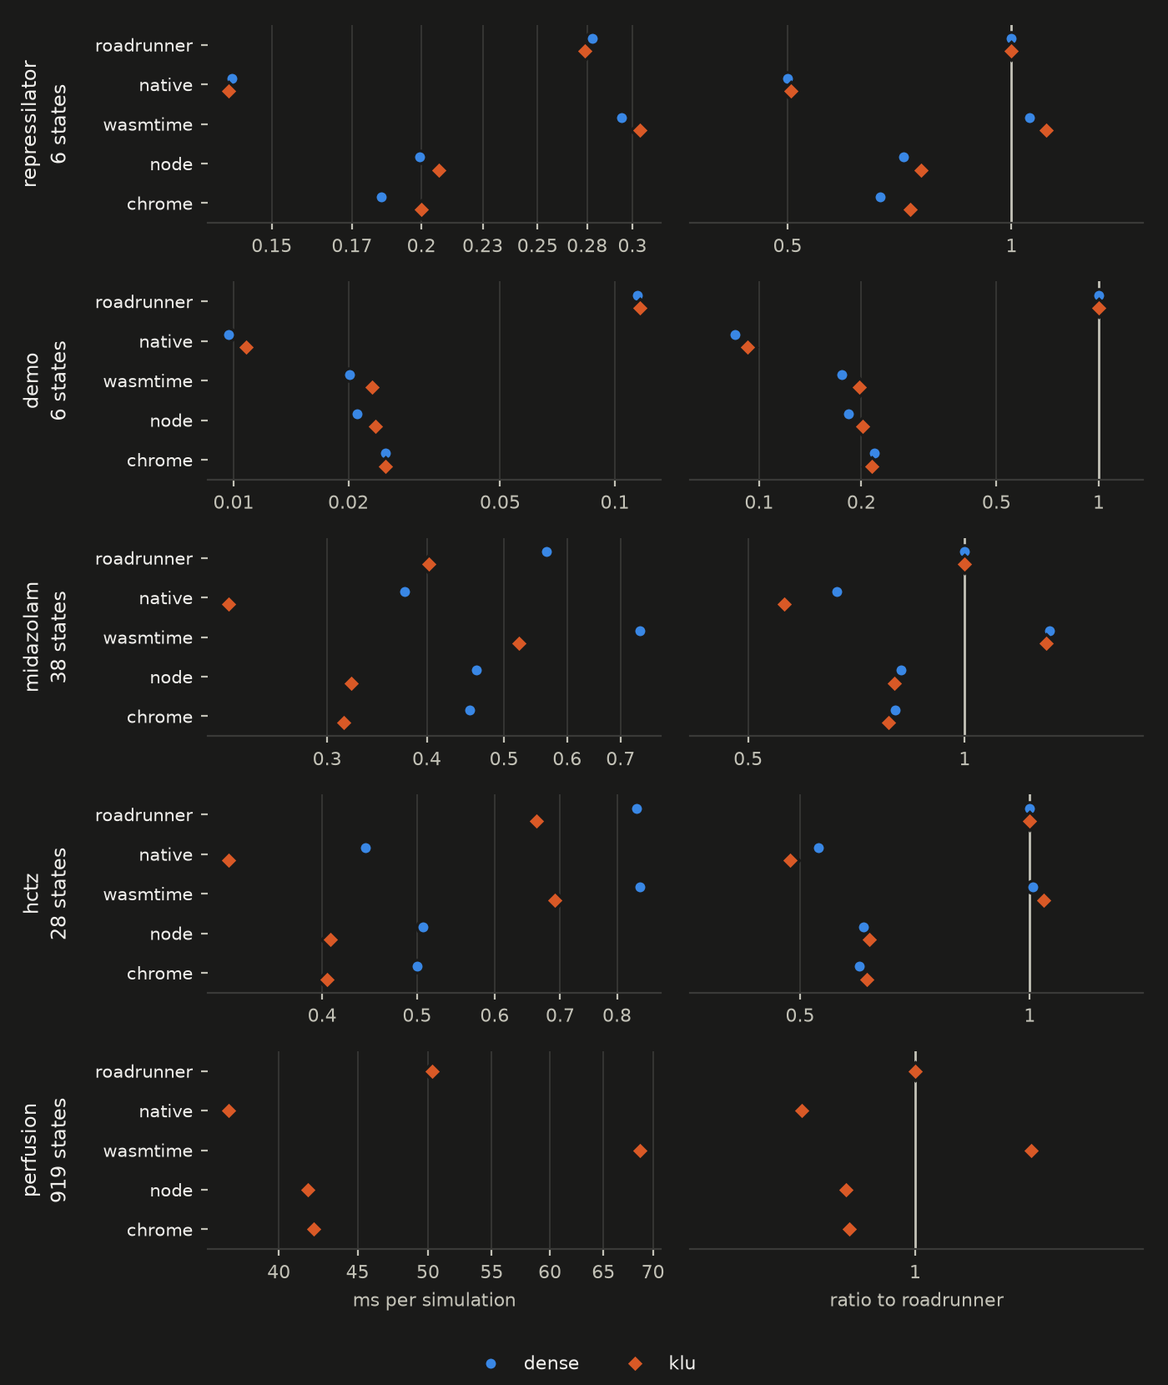
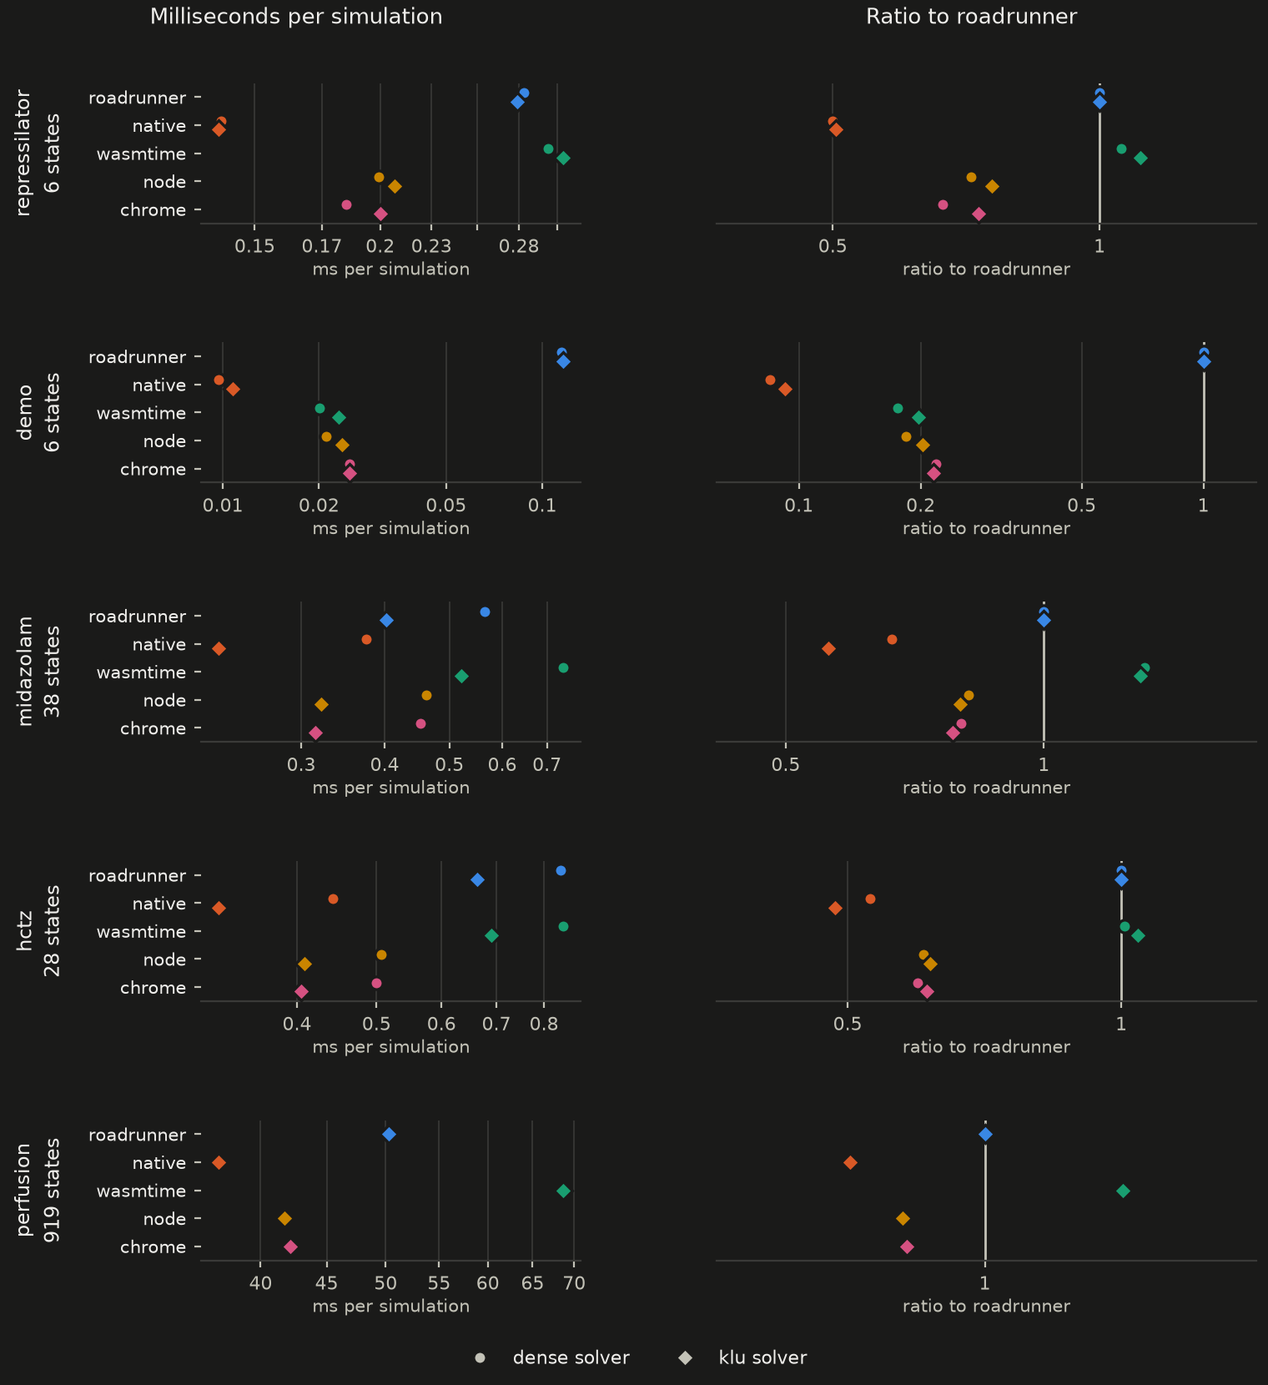
sbmlsim-core 0.9.0 (#26)
* The four models of sbmlsim as a benchmark of the engine against roadrunner

sbmlsim measures this engine from python and reports it at 0.43 to 2.34 ms
for one simulation of its four packaged models against roadrunner's 0.46 to
2.00 ms, so the engine looks a little slower there. `bench/sbmlsim.toml`
measures the same four simulations without python, on every host, and the
answer is the other way round: the engine takes 0.04 to 0.72 of roadrunner's
time natively, in Node and in Chrome, and 0.09 to 1.09 in wasmtime, whose
Cranelift code is 25 to 75 % slower than V8's on the same `engine.wasm`.

The file is the configuration of sbmlsim's benchmark and not of
`bench/models.toml`: the same ends and doses, 101 output points and the
settings sbmlsim sends for a run at the defaults of `Simulator`, rtol 1e-6
with roadrunner's vector of absolute tolerances of the base 1e-10, where
`bench/models.toml` keeps the tighter 1e-12 of the spike. The two lists are
each comparable with themselves and not with each other.

`bench/SBMLSIM.md` reports the five hosts and reads them against sbmlsim's
own numbers: the python layer costs the engine 1.19 to 1.93 ms per
simulation against roadrunner's 0.22 to 1.32 ms, which is 83 to 98 % of what
sbmlsim measures for the engine, and two thirds of it is work which does not
depend on the simulation. The engine is not where that time goes.

* sbmlsim-core 0.9.0

The version in every place which carries it and the release notes of the
[…]

diff --git a/python/sbmlsim_core/web/sbmlsim-core.js b/python/sbmlsim_core/web/sbmlsim-core.js
@@ -1,4 +1,4 @@
-// sbmlsim-core 0.8.0, the inline build of its JavaScript host (js/inline.mjs, js/build.mjs).
+// sbmlsim-core 0.9.0, the inline build of its JavaScript host (js/inline.mjs, js/build.mjs).
 // Generated, do not edit. MIT AND BSD-3-Clause AND LGPL-2.1-or-later, see LICENSE and THIRD_PARTY.md.
 var sbmlsimCore = (() => {
   var __defProp = Object.defineProperty;
@@ -955,7 +955,7 @@ var sbmlsimCore = (() => {
   }
 
   // panels.mjs
-  var CORE_VERSION = "0.8.0";
+  var CORE_VERSION = "0.9.0";
   var ENGINE = `sbmlsim-core ${CORE_VERSION}`;
   var BUNDLE_CONTRACT = "panelbundle/1";
   var PANEL_CONTRACT = "panel/1";

diff --git a/scripts/bench_figure.py b/scripts/bench_figure.py
@@ -52,12 +52,28 @@ ENGINES: tuple[tuple[str, str], ...] = (
 SOLVERS: tuple[str, ...] = ("dense", "klu")
 
 #: The colours of the solvers: the categorical slots 1 and 2, light and dark.
+# the first five slots of the categorical theme, which validate on the adjacent
+# pairlist in both modes; identity is the row label and its position, the colour
+# ties one engine across the panels
 COLORS: dict[str, dict[str, str]] = {
-    "light": {"dense": "#2a78d6", "klu": "#eb6834"},
-    "dark": {"dense": "#3987e5", "klu": "#d95926"},
+    "light": {
+        "roadrunner": "#2a78d6",
+        "native": "#eb6834",
+        "wasmtime": "#1baf7a",
+        "node": "#eda100",
+        "chrome": "#e87ba4",
+    },
+    "dark": {
+        "roadrunner": "#3987e5",
+        "native": "#d95926",
+        "wasmtime": "#199e70",
+        "node": "#c98500",
+        "chrome": "#d55181",
+    },
 }
 
-#: The surface, the ink and the recessive ink of each mode of the documentation.
+MARKERS: dict[str, str] = {"dense": "o", "klu": "D"}
+
 INK: dict[str, dict[str, str]] = {
     "light": {
         "surface": "#ffffff",
@@ -202,8 +218,35 @@ def tables(cells: list[Cell], models: list[str]) -> str:
     return "\n".join(out).strip()
 
 
+def _thin_ticks(fig: Figure) -> None:
+    """Hide the tick labels of an axis which would overlap their neighbour.
+
+    A logarithmic axis of less than a decade gets more ticks from matplotlib
+    than its width carries, so the labels are thinned after the layout, when
+    their drawn width is known.
+
+    Args:
+        fig: The figure, drawn.
+    """
+    renderer = fig.canvas.get_renderer()
+    for ax in fig.get_axes():
+        kept: float | None = None
+        for label in ax.xaxis.get_ticklabels():
+            if not label.get_text():
+                continue
+            box = label.get_window_extent(renderer=renderer)
+            if kept is not None and box.x0 < kept + 3.0:
+                label.set_visible(False)
+                continue
+            kept = box.x1
+
+
 def figure(cells: list[Cell], models: list[str], mode: str) -> Figure:
     """Draw the figure of one mode of the documentation.
+
+    The two measures are two subfigures with a gap between them, each with its
+    own heading and an axis label under every panel, so a time is never read as
+    a ratio. A colour is an engine and a marker is a solver.
 
     Args:
         cells: The measured configurations.
@@ -216,18 +259,23 @@ def figure(cells: list[Cell], models: list[str], mode: str) -> Figure:
     ink, color = INK[mode], COLORS[mode]
     by = {(c.model, c.engine, c.solver): c for c in cells}
     engines = [e for e, _ in ENGINES]
+    headings = {"ms": "Milliseconds per simulation", "ratio": "Ratio to roadrunner"}
 
-    fig, axes = plt.subplots(
-        len(models),
-        2,
-        figsize=(7.0, 1.55 * len(models) + 0.55),
-        facecolor=ink["surface"],
-    )
-    for row, model in enumerate(models):
-        last = row == len(models) - 1
-        for column, measure in enumerate(("ms", "ratio")):
-            ax = axes[row][column]
-            shown = engines
+    fig = plt.figure(figsize=(7.6, 1.5 * len(models) + 0.8), facecolor=ink["surface"])
+    columns = fig.subfigures(1, 2, wspace=0.14)
+    for column, measure in enumerate(("ms", "ratio")):
+        panel = columns[column]
+        panel.set_facecolor(ink["surface"])
+        panel.suptitle(
+            headings[measure],
+            fontsize=9.5,
+            color=ink["primary"],
+            y=0.995,
+            fontweight="medium",
+        )
+        axes = panel.subplots(len(models), 1)
+        for row, model in enumerate(models):
+            ax = axes[row]
             ax.set_facecolor(ink["surface"])
             for spine in ("top", "right", "left"):
                 ax.spines[spine].set_visible(False)
@@ -241,10 +289,10 @@ def figure(cells: list[Cell], models: list[str], mode: str) -> Figure:
             )
             ax.xaxis.set_minor_locator(NullLocator())
             ax.xaxis.set_major_formatter(FuncFormatter(_plain))
-            ax.set_ylim(len(shown) - 0.5, -0.5)
-            ax.set_yticks(range(len(shown)))
+            ax.set_ylim(len(engines) - 0.5, -0.5)
+            ax.set_yticks(range(len(engines)))
             ax.set_yticklabels(
-                shown if column == 0 else [""] * len(shown),
+                engines if column == 0 else [""] * len(engines),
                 fontsize=7.5,
                 color=ink["primary"],
             )
@@ -254,12 +302,11 @@ def figure(cells: list[Cell], models: list[str], mode: str) -> Figure:
                 ax.axvline(1.0, color=ink["secondary"], linewidth=1.0, zorder=1)
                 values = [
                     by[(model, e, s)].ms / by[(model, "roadrunner", s)].ms
-                    for e in shown
+                    for e in engines
                     for s in solvers
                 ]
-                low, high = min(values), max(values)
-                ax.set_xlim(low / 1.35, high * 1.35)
-            for position, engine in enumerate(shown):
+                ax.set_xlim(min(values) / 1.35, max(values) * 1.35)
+            for position, engine in enumerate(engines):
                 for solver in solvers:
                     cell = by.get((model, engine, solver))
                     reference = by.get((model, "roadrunner", solver))
@@ -275,9 +322,9 @@ def figure(cells: list[Cell], models: list[str], mode: str) -> Figure:
                     ax.plot(
                         value,
                         position + offset,
-                        marker="o" if solver == "dense" else "D",
+                        marker=MARKERS[solver],
                         markersize=5.5,
-                        markerfacecolor=color[solver],
+                        markerfacecolor=color[engine],
                         markeredgecolor=ink["surface"],
                         markeredgewidth=1.2,
                         linestyle="none",
@@ -294,23 +341,31 @@ def figure(cells: list[Cell], models: list[str], mode: str) -> Figure:
                     linespacing=1.4,
                     labelpad=10,
                 )
-            if last:
-                ax.set_xlabel(
-                    "ms per simulation" if measure == "ms" else "ratio to roadrunner",
-                    fontsize=8,
-                    color=ink["secondary"],
-                )
+            ax.set_xlabel(
+                "ms per simulation" if measure == "ms" else "ratio to roadrunner",
+                fontsize=7.5,
+                color=ink["secondary"],
+                labelpad=2,
+            )
+        # the left column carries the engine names and the model heading
+        panel.subplots_adjust(
+            left=0.34 if column == 0 else 0.07,
+            right=0.98,
+            hspace=0.85,
+            top=0.94,
+            bottom=0.09,
+        )
     handles = [
         Line2D(
             [],
             [],
-            marker="o" if solver == "dense" else "D",
+            marker=MARKERS[solver],
             markersize=5.5,
-            markerfacecolor=color[solver],
+            markerfacecolor=ink["secondary"],
             markeredgecolor=ink["surface"],
             markeredgewidth=1.2,
             linestyle="none",
-            label=solver,
+            label=f"{solver} solver",
         )
         for solver in SOLVERS
     ]
@@ -321,10 +376,11 @@ def figure(cells: list[Cell], models: list[str], mode: str) -> Figure:
         frameon=False,
         fontsize=8,
         labelcolor=ink["primary"],
-        bbox_to_anchor=(0.5, -0.004),
+        bbox_to_anchor=(0.5, 0.0),
     )
     legend.set_zorder(5)
-    fig.tight_layout(rect=(0, 0.035, 1, 1))
+    fig.canvas.draw()
+    _thin_ticks(fig)
     return fig
 
 

diff --git a/release-notes/0.9.0.md b/release-notes/0.9.0.md
@@ -1,0 +1,29 @@
+# Release notes for sbmlsim-core 0.9.0
+
+The python package simulates on the native engine instead of `engine.wasm` in wasmtime, which is 1.9 to 2.3 times the speed of the wheel of 0.8.0 on the five models of the benchmark of sbmlsim. The model is the same `model.wasm` as before, so only the integrator changes, and what that costs is the last bits: a result of a wheel is no longer bitwise a result of the same model in a browser, and no longer guaranteed bitwise across platforms.
+
+## New
+
+- **The python bindings simulate on the native engine** ([#24](https://github.com/matthiaskoenig/sbmlsim-core/pull/24)). A wheel ran `engine.wasm` in wasmtime, which is the slowest of the hosts this engine runs on: measured on the five models of the benchmark of [sbmlsim](https://github.com/matthiaskoenig/sbmlsim) at its own configuration (`bench/sbmlsim.toml`, one performance core), one simulation took 0.020 to 69 ms there against 0.0097 to 37 ms natively, and V8 is 25 to 75 % faster than Cranelift on the same `engine.wasm`, so a browser integrated faster than python did. `crates/python` now takes `sbmlsim-host` with its feature `native`, so the integrator is compiled for the machine of the wheel (CVODE and SuiteSparse KLU from the submodules of `third_party`) while `model.wasm` and `mathlib.wasm` stay in wasmtime. Driven from sbmlsim, which also stopped making an instance per simulation, one simulation of the HCTZ model went from 2.34 ms to 0.876 ms.
+
+    **A result is no longer bitwise the one of `engine.wasm`.** CVODE calls the `pow` and `sqrt` of the C library of the platform where it chooses its step size (`SUNRpowerR`), `engine.wasm` calls those of wasi-libc, so a result of a wheel is not bitwise a result of the same model in a browser or under `node`, and is not guaranteed bitwise across platforms either, the C library being the platform's. Within one platform and one wheel nothing changes: the C sources are compiled `-O3 -DNDEBUG -ffp-contract=off -fno-fast-math`, so no fused multiply-add and no fast math enter a result, every instance of a model integrates the same way, and a batch gives the results of a serial run bitwise whatever its threads. How large the differences are, measured: on those models the integrator took the identical path in the native engine, in wasmtime and under Node, all eighteen configurations of a model, a solver and a Jacobian agreeing on every counter (the 919 state model among them), so nothing of those results moved, and the largest relative difference from roadrunner at tight tolerances is the one of `engine.wasm` at every digit printed (4.32e-12, 0, 1.70e-08 and 1.20e-11). On the golden model, which has events, root functions and a steady state in its request, 3 of 30 values differ and the largest relative difference is 1.0e-14, against an integration at a relative tolerance of 1e-6. So the two engines can differ, and where they do it is near the last bits of a double and far below the error of the integration. `sbmlsim-core bench --host wasmtime` and the [JavaScript host](https://matthiaskoenig.github.io/sbmlsim-core/javascript/) remain the way to a result of `engine.wasm`, and `docs/python.md` has the section "The engine of the wheel".
+
+- **`Engine::with_max_output_values`** bounds a result below `MAX_OUTPUT_VALUES`, and a native instance is given the memory limit of its runtime as that bound. The memory of a guest bounded the result of an instance of `engine.wasm`; the native engine allocates its result in the memory of the host, so without this `Runtime(max_memory_bytes=...)` would no longer bound a result at all. The check is the up-front one of the output times, so it raises the request error before anything is allocated.
+
+- **`LoadedModel::instantiate_native` and `NativeInstance::simulate_prepared`** carry the whole API of the bindings on the native engine: an instance is made from the `model.wasm` the model compiled once, and a prepared request is resolved into a plan of the engine once per instance and kept, as an instance of `engine.wasm` keeps the plan of its guest. `NativeInstance` is `Send`, so a batch moves one into each worker of its rayon pool and keeps it for the points after the first.
+
+- **The feature `native` no longer enables `sbmlsim-engine/test-models`**, so no test model travels in a wheel; the tests of `sbmlsim-host` reach `Decay` and `Robertson` through a dev-dependency instead.
+
+## Changed
+
+- **A source build of the python package compiles the C of the native engine** and not only that of mimalloc, so on a target of MSVC it needs the `clang` of LLVM on the path; `cl` cannot compile SUNDIALS. The wheels keep their tags and their floor (`manylinux_2_28`, no symbol above `GLIBC_2.28`). `docs/installation.md` says so.
+
+- **The message of an output above the limit** names the limit and the memory of the engine in one sentence, since the bound is no longer the one constant.
+
+- **A tag makes the release of this repository too** ([#22](https://github.com/matthiaskoenig/sbmlsim-core/pull/22)). The job `github_release` of `publish.yml` creates it from `release-notes/x.y.z.md` once PyPI and npm both carry the version, so a release of this repository never announces a version a registry does not have and nothing of a release is made by hand.
+
+## Benchmarks
+
+- **The documentation has a page of benchmarks** ([Benchmarks](https://matthiaskoenig.github.io/sbmlsim-core/benchmarks/)): the times and the ratios against roadrunner of every host, as tables and as a figure, written by `scripts/bench_figure.py` from the JSON of a run and generated by nothing at build time. The models are `bench/sbmlsim.toml` ([#23](https://github.com/matthiaskoenig/sbmlsim-core/pull/23)), the benchmark of sbmlsim at its own configuration, a second list next to `bench/models.toml`, whose tolerances and output grids differ, so each is comparable with itself and not with the other. The large model of that benchmark is measured with the rest now, the liver of a normothermic machine perfusion (919 states, 2.6 MB), with KLU alone, which is the solver a simulator picks for it.
+
+    The host decides the comparison with roadrunner: natively the engine is faster on every model, by 1.4 to 12 times, and under V8 by 1.2 to 5 times, but in wasmtime it is slower than roadrunner on every model but `demo`, by 1.01 to 1.37. The wheel and the browser therefore both run the engine faster than the host this repository builds with.

diff --git a/docs/benchmarks.md b/docs/benchmarks.md
@@ -37,13 +37,13 @@ The models are the ones of `bench/sbmlsim.toml`, which is sbmlsim's own benchmar
 ![One simulation of each model on each host](images/benchmark-hosts-light.png#only-light)
 ![One simulation of each model on each host](images/benchmark-hosts-dark.png#only-dark)
 
-Every row of panels is one model, every row inside a panel one engine and the axis is logarithmic. The left column is the time of one simulation and the right the ratio against roadrunner with the same solver, which puts roadrunner itself on the line at 1: a dot left of that line is faster than roadrunner.
+Every row of panels is one model, every row inside a panel one engine and the axis is logarithmic. The two columns are the two measures: the left is the time of one simulation and the right the ratio against roadrunner with the same solver, which puts roadrunner itself on the line at 1, so a mark left of that line is faster than roadrunner. A colour is an engine, the same colour in every panel, and a mark is a solver: a disc is dense and a diamond is KLU. The engine of a row is named on its axis as well, so nothing of the figure is read by colour alone.
 
 The host decides the comparison with roadrunner. Natively the engine is faster on every model, by 1.4 to 12 times, and under V8 it is faster on every model as well, by 1.2 to 5 times (Node and Chrome). In wasmtime it is slower than roadrunner on every model but `demo` (1.01 to 1.37), because the code Cranelift produces is 25 to 75 % slower than V8's on the same `engine.wasm`: the wheel and the browser therefore both run the engine faster than the host this repository builds with. `demo` is the other extreme, five integration steps of a model of six states, where roadrunner's fixed cost per call dominates and the engine is 5 to 12 times faster on every host.
 
 Node and Chrome agree within 2 % on the three models whose simulation is longer than 0.3 ms. They do not on the two shortest, `demo` (0.021 against 0.025 ms) and the repressilator (0.199 against 0.185 ms), where Chrome's clock quantizes a value of that size rather than the engines differing.
 
-The hosts integrate alike and not only in their answers: every one of the sixteen configurations of a model, a solver and a Jacobian above has the same counters of the integrator in the native engine, in wasmtime and under Node (steps, right hand side evaluations, Jacobian evaluations, nonlinear iterations, error test failures), so the times of a row are the same work done at different speeds, and the native engine of the wheel changes nothing of these results although it can differ from `engine.wasm` in the last bits (see [Python](python.md#the-engine-of-the-wheel)).
+The hosts integrate alike and not only in their answers: every one of the eighteen configurations of a model, a solver and a Jacobian above has the same counters of the integrator in the native engine, in wasmtime and under Node (steps, right hand side evaluations, Jacobian evaluations, nonlinear iterations, error test failures), so the times of a row are the same work done at different speeds, and the native engine of the wheel changes nothing of these results although it can differ from `engine.wasm` in the last bits (see [Python](python.md#the-engine-of-the-wheel)).
 
 The large model is measured with KLU alone, which is the solver a simulator picks for it (sbmlsim's `linear_solver="auto"` takes KLU above twelve states): a dense factorization of a 919 by 919 matrix costs 5.9 s per simulation in wasmtime against 0.069 s with KLU, and roadrunner takes 2.0 s against 0.050 s, so the dense cells of that row are not measured rather than reported.
 

diff --git a/docs/javascript.md b/docs/javascript.md
@@ -15,7 +15,7 @@ The package is published to npm as [`sbmlsim-core`](https://www.npmjs.com/packag
 npm install sbmlsim-core
 ```
 
-A page imports the modules from its own files or from a CDN (`https://cdn.jsdelivr.net/npm/sbmlsim-core@0.8.0/panels.mjs`); a pool of a module of another origin starts its workers through a module of the page's own origin, which browsers require of a worker. A checkout serves the files of `js/` with the runtime of a build (`sbmlsim-core runtime -o js/runtime`, see [Installation](installation.md#building)). A release publishes the package from the tag `vX.Y.Z` (`.github/workflows/publish.yml`, trusted publishing with provenance, together with the python package on PyPI); the version of `js/package.json` is the one of the crates and of `CORE_VERSION`, which `npm pack` checks.
+A page imports the modules from its own files or from a CDN (`https://cdn.jsdelivr.net/npm/sbmlsim-core@0.9.0/panels.mjs`); a pool of a module of another origin starts its workers through a module of the page's own origin, which browsers require of a worker. A checkout serves the files of `js/` with the runtime of a build (`sbmlsim-core runtime -o js/runtime`, see [Installation](installation.md#building)). A release publishes the package from the tag `vX.Y.Z` (`.github/workflows/publish.yml`, trusted publishing with provenance, together with the python package on PyPI); the version of `js/package.json` is the one of the crates and of `CORE_VERSION`, which `npm pack` checks.
 
 ## The loader
 

diff --git a/js/README.md b/js/README.md
@@ -20,7 +20,7 @@ npm install sbmlsim-core
 or import the modules from a CDN, which serves them with the headers every origin may read:
 
 ```js
-import { createPanelEndpoint } from "https://cdn.jsdelivr.net/npm/sbmlsim-core@0.8.0/panels.mjs";
+import { createPanelEndpoint } from "https://cdn.jsdelivr.net/npm/sbmlsim-core@0.9.0/panels.mjs";
 ```
 
 A pool started from a module of another origin starts its workers through a module of the page's own origin, so the CDN works for the workers as well. The engine needs fixed-width SIMD of WebAssembly: Chrome 91, Firefox 89, Safari 16.4 or newer, Node 20 or newer.
@@ -86,7 +86,7 @@ pool.close();
 <!-- the IIFE build of sbmlsim-web, a release with registerEndpoint -->
 <script src="sbmlsim-web.iife.js"></script>
 <script type="module">
-  import { createPanelEndpoint } from "https://cdn.jsdelivr.net/npm/sbmlsim-core@0.8.0/panels.mjs";
+  import { createPanelEndpoint } from "https://cdn.jsdelivr.net/npm/sbmlsim-core@0.9.0/panels.mjs";
 
   sbmlsimWeb.registerEndpoint(
     "local:glimepiride",

diff --git a/docs/simulating.md b/docs/simulating.md
@@ -98,7 +98,7 @@ cached per engine and reused across compatible simulations.
 | field | what it holds |
 |---|---|
 | `contract` | `"model/2"` |
-| `compiler` | the compiler and its version, e.g. `"sbmlsim-compiler 0.8.0"` |
+| `compiler` | the compiler and its version, e.g. `"sbmlsim-compiler 0.9.0"` |
 | `id` | the id of the model |
 | `states` | the states, in the order of the state vector (the order of a `per_state` tolerance) |
 | `parameters` | the parameters (with the compartments, the species which are not states and the species references), in the order of the parameter vector |
@@ -115,7 +115,7 @@ An entity of `states` and `parameters` is `{"id", "kind", "initial", "settable"}
 ```json
 {
   "contract": "model/2",
-  "compiler": "sbmlsim-compiler 0.8.0",
+  "compiler": "sbmlsim-compiler 0.9.0",
   "id": "toy",
   "states": [
     { "id": "A", "kind": { "species": { "compartment": "c", "has_only_substance_units": false, "stores_concentration": false } }, "initial": 20.0, "settable": true }
